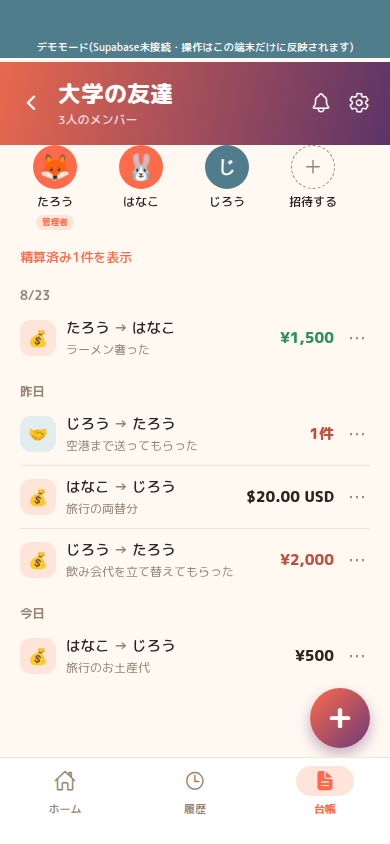
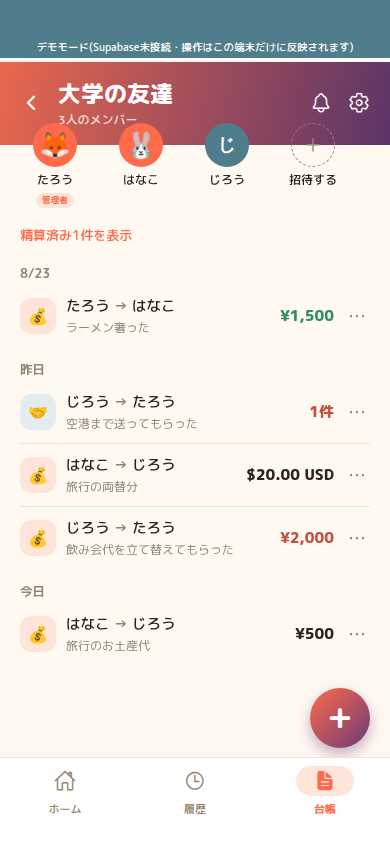
kashikari: メンバーアイコンをヘッダーに食い込ませるレイアウトに変更
「ヘッダーとメンバー一覧を単純に上下に並べるのではなく、メンバー
アイコンがヘッダーに少し重なるレイアウトにしてほしい」という指摘への
対応。スキーマ変更なし。

これまではグラデーションヘッダーが完全に終わってから、その下に
メンバー一覧を配置していたが、参考画像はメンバーアイコンの上半分程度
がグラデーション領域に重なる構成だった。

- メンバー一覧のScrollView(外側のstyle)にmarginTop: -22(アイコン
  サイズ44pxの半分)を与えて上にずらした
- ヘッダー本体(タイトル・人数・戻る/通知/設定)はそのまま変更なし
- ヘッダーの角丸・影は前段階の修正で既に外してあるため、重なり部分に
  丸みの切れ込みや白い隙間は出ない
- メンバー名・管理者バッジは同じmemberSlot内にあるため、アイコンの
  位置に合わせて自然に下へ配置される
- メンバー一覧の背景は変更していない(透過のまま、アイコンの無い部分は
  グラデーションが透けて見える)

GroupScreen.tsx / DemoGroupScreen.tsx両方に適用。tsc --noEmit /
expo export --platform web(通常+デモモード)とも問題なし。
Playwrightでホーム/台帳タブとも、アイコンの上半分がグラデーション
領域に重なっていることを確認済み。

Claude-Session: https://claude.ai/code/session_016w6H5fipiVvbtfX7sgu87W

diff --git a/personal-side-projects/kashikari/mobile/src/screens/GroupScreen.tsx b/personal-side-projects/kashikari/mobile/src/screens/GroupScreen.tsx
@@ -312,8 +312,20 @@ export default function GroupScreen({ group, meId, justCreated, onBack, onLeave,
 
       {/* 「メンバーが増えた場合は横スクロールできるようにする」という
           指摘を受け、折り返し(flexWrap)から横スクロール(ScrollView)に
-          変更した。人数が少ない間は画面内に収まるため見た目は変わらない。 */}
-      <ScrollView horizontal showsHorizontalScrollIndicator={false} contentContainerStyle={styles.memberStrip}>
+          変更した。人数が少ない間は画面内に収まるため見た目は変わらない。
+          「ヘッダーとメンバー一覧を単純に上下に並べるのではなく、メンバー
+          アイコンがヘッダーに食い込んでいるレイアウトにする」という指摘
+          を受け、ScrollView自体(外側のstyle)に負のmarginTopを与えて
+          上にずらし、アイコンの上半分がグラデーション領域に重なるように
+          した(この要素は見た目のJSX順で後に来るため、重なった部分では
+          手前に描画される。角丸・影は前回すでに外してあるので、重なり
+          部分に丸みの切れ込みや白い隙間は出ない)。 */}
+      <ScrollView
+        horizontal
+        showsHorizontalScrollIndicator={false}
+        style={styles.memberStripWrap}
+        contentContainerStyle={styles.memberStrip}
+      >
         {members.map((m) => {
           const isMe = m.id === meId;
           const isAdmin = m.id === group.created_by;
@@ -536,6 +548,9 @@ const styles = StyleSheet.create({
   // 「グループ名をもう少し大きくする」という指摘を受けてfontSizeを上げた。
   title: { ...fonts.display, fontSize: 23, color: '#fff' },
   memberCount: { ...fonts.bodyMedium, fontSize: 12, color: 'rgba(255,255,255,0.8)', marginTop: 1 },
+  // アイコン(lgサイズ=44px)の上半分がヘッダーに重なるよう、高さの半分
+  // だけ上にずらす。
+  memberStripWrap: { marginTop: -22 },
   memberStrip: { flexDirection: 'row', gap: 16, marginBottom: 18, paddingRight: 4 },
   memberSlot: { alignItems: 'center', width: 70, gap: 4 },
   memberSlotName: { ...fonts.bodyMedium, fontSize: 12, color: colors.ink, maxWidth: 68 },

diff --git a/personal-side-projects/kashikari/mobile/src/demo/DemoGroupScreen.tsx b/personal-side-projects/kashikari/mobile/src/demo/DemoGroupScreen.tsx
@@ -303,7 +303,14 @@ export default function DemoGroupScreen({ onBack, onOpenSettings }: { onBack: ()
         </LinearGradient>
       </View>
 
-      <ScrollView horizontal showsHorizontalScrollIndicator={false} contentContainerStyle={styles.memberStrip}>
+      {/* 「メンバーアイコンがヘッダーに食い込んでいるレイアウトにする」
+          という指摘への対応(詳細はGroupScreen.tsxの同じ箇所参照)。 */}
+      <ScrollView
+        horizontal
+        showsHorizontalScrollIndicator={false}
+        style={styles.memberStripWrap}
+        contentContainerStyle={styles.memberStrip}
+      >
         {members.map((m) => {
           const isMe = m.id === meId;
           const isAdmin = m.id === group.created_by;
@@ -546,6 +553,7 @@ const styles = StyleSheet.create({
   titleCol: { flex: 1, marginHorizontal: 16 },
   title: { ...fonts.display, fontSize: 23, color: '#fff' },
   memberCount: { ...fonts.bodyMedium, fontSize: 12, color: 'rgba(255,255,255,0.8)', marginTop: 1 },
+  memberStripWrap: { marginTop: -22 },
   memberStrip: { flexDirection: 'row', gap: 16, marginBottom: 18, paddingRight: 4 },
   memberSlot: { alignItems: 'center', width: 70, gap: 4 },
   memberSlotName: { ...fonts.bodyMedium, fontSize: 12, color: colors.ink, maxWidth: 68 },
